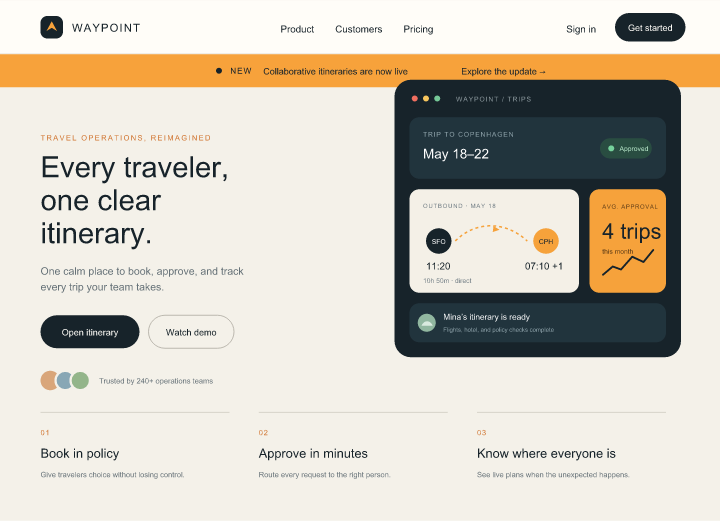
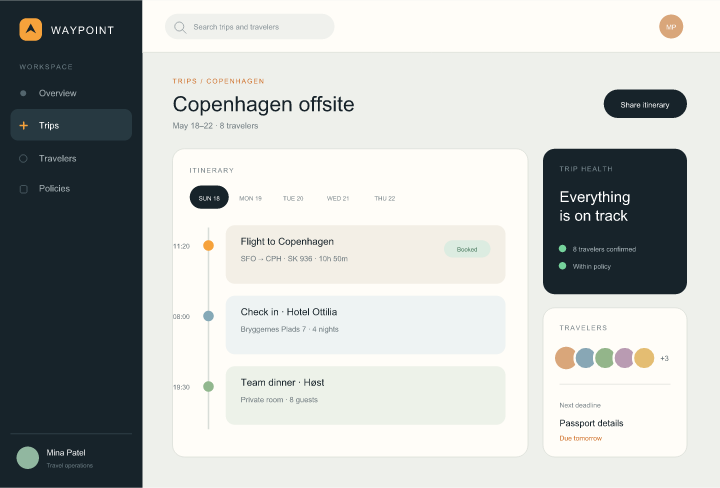
feat: add dedicated sample report

diff --git a/apps/web/src/App.tsx b/apps/web/src/App.tsx
@@ -7,7 +7,7 @@ import { useEffect, useMemo, useRef, useState } from "react";
 
 import {
   imageUrl,
-  parseScanSource,
+  pageSource,
   reportUrl,
   type ImageSource,
 } from "./scan-source";
@@ -71,10 +71,7 @@ function SourceForm() {
         </p>
       </div>
       <div className="source-actions">
-        <a
-          className="source-card source-card-primary"
-          href="/report/?fixture=mixed"
-        >
+        <a className="source-card source-card-primary" href="/sample/">
           <span>
             <strong>Open the sample</strong>
             <em>Three changes. No scavenger hunt.</em>
@@ -110,7 +107,7 @@ function SetupPage() {
           <BrandMark />
           <span>Frameshift</span>
         </a>
-        <a href="/report/?fixture=mixed">View the sample →</a>
+        <a href="/sample/">View the sample →</a>
       </header>
 
       <article className="setup-document">
@@ -413,7 +410,8 @@ export function App() {
           setState({ kind: "setup" });
           return;
         }
-        const source = parseScanSource(
+        const source = pageSource(
+          window.location.pathname,
           new URLSearchParams(window.location.search),
         );
         if (!source) {

diff --git a/apps/web/src/scan-source.test.ts b/apps/web/src/scan-source.test.ts
@@ -1,8 +1,20 @@
 import { describe, expect, test } from "vitest";
 
-import { imageUrl, parseScanSource, reportUrl } from "./scan-source";
+import {
+  imageUrl,
+  pageSource,
+  parseScanSource,
+  reportUrl,
+} from "./scan-source";
 
 describe("scan source", () => {
+  test("loads the mixed fixture from the sample route", () => {
+    expect(pageSource("/sample/", new URLSearchParams())).toEqual({
+      kind: "fixture",
+      name: "mixed",
+    });
+  });
+
   test("builds an immutable public report URL", () => {
     const source = parseScanSource(
       new URLSearchParams({

diff --git a/apps/web/src/scan-source.ts b/apps/web/src/scan-source.ts
@@ -10,6 +10,16 @@ export type ScanSource =
 export type ImageSource =
   ScanSource | { imageUrls: ReadonlyMap<string, string>; kind: "browser" };
 
+export function pageSource(
+  pathname: string,
+  params: URLSearchParams,
+): ScanSource | null {
+  if (pathname.replace(/\/+$/, "") === "/sample") {
+    return { kind: "fixture", name: "mixed" };
+  }
+  return parseScanSource(params);
+}
+
 export function parseScanSource(params: URLSearchParams): ScanSource | null {
   const repo = params.get("repo");
   const ref = params.get("ref");

diff --git a/apps/web/sample/index.html b/apps/web/sample/index.html
@@ -1,0 +1,13 @@
+<!doctype html>
+<html lang="en">
+  <head>
+    <meta charset="UTF-8" />
+    <meta name="viewport" content="width=device-width, initial-scale=1.0" />
+    <meta name="description" content="Explore a sample Frameshift report." />
+    <title>Sample report · Frameshift</title>
+  </head>
+  <body>
+    <div id="root"></div>
+    <script type="module" src="/src/main.tsx"></script>
+  </body>
+</html>

diff --git a/apps/web/vite.config.ts b/apps/web/vite.config.ts
@@ -15,6 +15,9 @@ export default defineConfig(({ command }) => {
           report: fileURLToPath(
             new URL("./report/index.html", import.meta.url),
           ),
+          sample: fileURLToPath(
+            new URL("./sample/index.html", import.meta.url),
+          ),
           setup: fileURLToPath(new URL("./setup/index.html", import.meta.url)),
         },
       },

diff --git a/fixtures/README.md b/fixtures/README.md
@@ -7,7 +7,9 @@ them.
 `mixed` is generated by the real comparison package. Its changed screenshot is
 an original travel-operations webpage with an inserted announcement bar, copy
 changes, and a changed metric. It also covers one added, removed, and unchanged
-screenshot. Do not edit its report or PNG files by hand.
+screenshot. The added itinerary and removed approvals queue are distinct pages,
+not variants of the changed landing page. Do not edit its report or PNG files
+by hand.
 
 Run `pnpm fixture:generate` after an intentional producer change. Run
 `pnpm fixtures:check` to validate every report with the Zod contract and ensure

diff --git a/README.md b/README.md
@@ -177,8 +177,8 @@ review UI:
 pnpm dev:fixture
 ```
 
-This opens `/report/?fixture=mixed`. The same fixture is available in a normal dev
-server at that path.
+This opens `/sample/`. The same fixture is available in a normal dev server at
+that path.
 
 You can also open a report directly:
 
